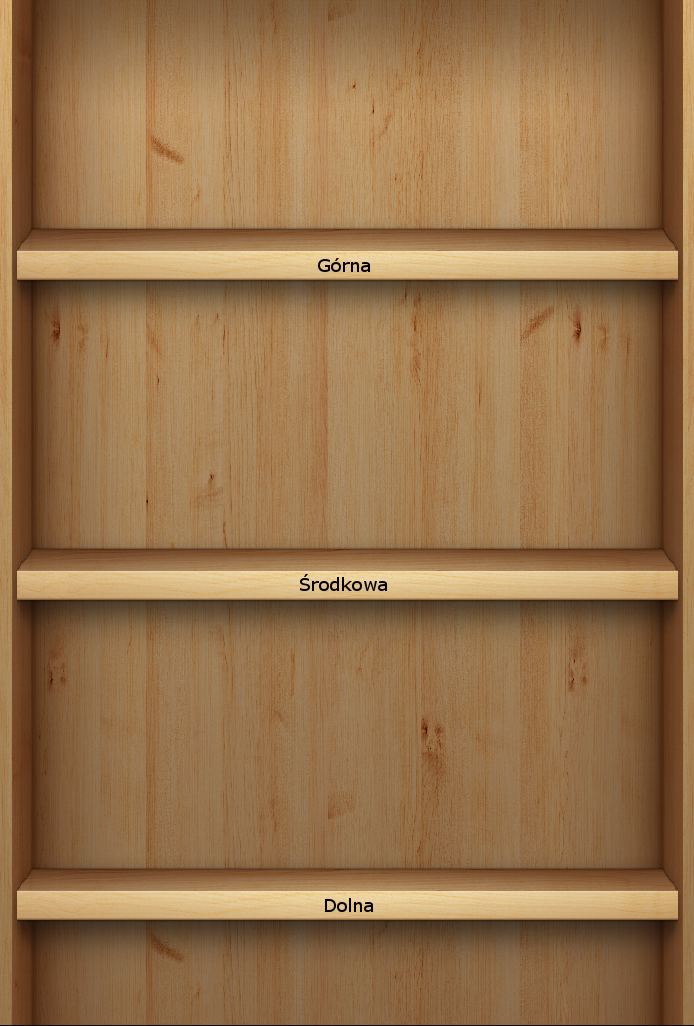
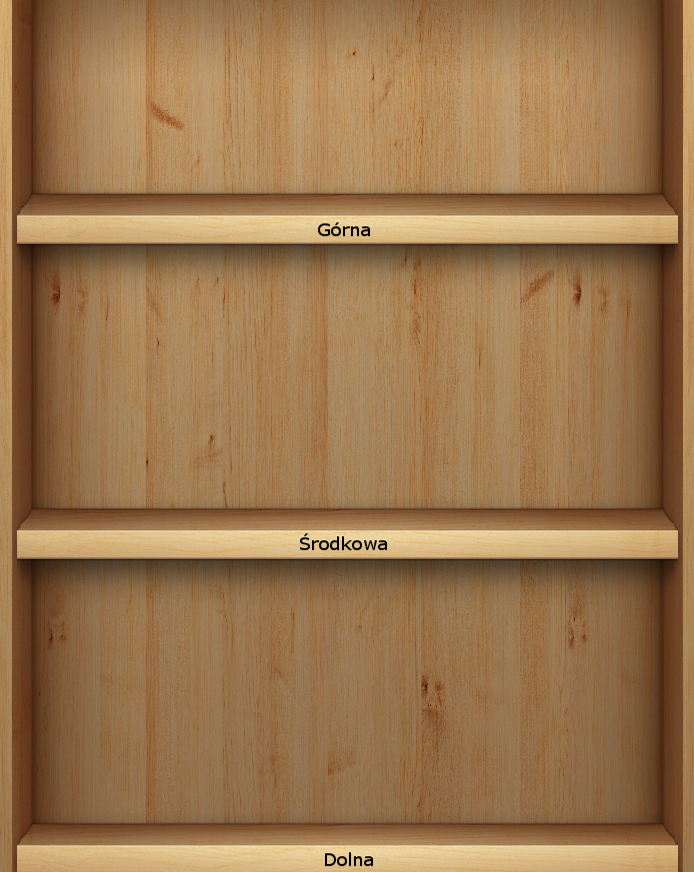
Dalsza rozbudowany grafika

diff --git a/KCK/KCK/GraphicManager.cpp b/KCK/KCK/GraphicManager.cpp
@@ -7,6 +7,12 @@ GraphicManager::GraphicManager()
 	_SI = new ScriptInterpreter();
 	_mech = _SI->getMechanic();
 	createWindow(WINDOW_WIDTH, WINDOW_HEIGHT);
+	BORDER_VIEWS_Y_AXIS = _mech->findShelf("south")->getSprite()->getGlobalBounds().top
+		+ _mech->findShelf("south")->getSprite()->getGlobalBounds().height;
+	BORDER_VIEWS_X_AXIS = _mech->findShelf("east")->getSprite()->getGlobalBounds().left
+		+ _mech->findShelf("east")->getSprite()->getGlobalBounds().width;
+	_topView = new TopView(*_window, _mech, BORDER_VIEWS_X_AXIS, BORDER_VIEWS_Y_AXIS);
+	_frontView = new FrontView(*_window, _mech, BORDER_VIEWS_X_AXIS, BORDER_VIEWS_Y_AXIS);
 }
 
 
@@ -18,16 +24,28 @@ void GraphicManager::runGraphic()
 { 
 	while (_window->isOpen())
 	{
+		Vector2f mouse(Mouse::getPosition(*_window));
 		Event event;
 		while (_window->pollEvent(event))
 		{
+			//jesli event dzieje sie na terenie ktoregos z pol, tam go wysylamy
+			//if (mouse.y > BORDER_VIEWS_Y_AXIS)
+
+			//else
+			if (mouse.x < BORDER_VIEWS_X_AXIS)
+				_topView->executeEvent(mouse, event);
+			else
+				_frontView->executeEvent(mouse, event);
 			if (event.type == Event::Closed)
 				_window->close();
+
 		}
 		//czyszczenie
 		_window->clear();
 		//rysowanie
-		drawShelves();
+		
+		_topView->drawAllContent();
+		_frontView->drawAllContent();
 		//wyswietlanie
 		_window->display();
 	}
@@ -49,15 +67,5 @@ void GraphicManager::createWindow(int Xsize, int Ysize)
 {
 	_window = new RenderWindow(VideoMode(Xsize, Ysize), "KCK");
 	_window->setFramerateLimit(60);
-}
-
-void GraphicManager::drawShelves()
-{
-	vector<Shelf*> vec = _mech->getShelvesVec();
-	for (vector<Shelf*>::iterator it = vec.begin(); it != vec.end(); ++it) //iterujemy przez caly vector
-	{
-		Sprite* sprite = (*it)->getSprite();
-		_window->draw(*sprite);
-	}
 }
 

diff --git a/KCK/KCK/TopView.cpp b/KCK/KCK/TopView.cpp
@@ -1,0 +1,47 @@
+#include "TopView.h"
+
+
+
+TopView::TopView(RenderWindow& window, Mechanic* mech, int borderXAxis, int borderYAxis) : _window(window)
+{
+	_mech = mech;
+	_background = new Sprite(*IOManager::loadSpriteFromFile("floor.png"), IntRect(10, 10, borderXAxis, borderYAxis));
+	_vec = _mech->getShelvesVec();
+}
+
+
+
+TopView::~TopView()
+{
+}
+
+void TopView::drawAllContent()
+{
+	_window.draw(*_background);
+	drawShelves();
+}
+
+void TopView::executeEvent(Vector2f& mouse, Event& event)
+{
+	//sprawdzanie czy ktoras z polek zawiera mysz
+	for (vector<Shelf*>::iterator it = _vec.begin(); it != _vec.end(); ++it) //iterujemy przez caly vector
+	{
+		Sprite* sprite = (*it)->getSprite();
+		//if (sprite->getGlobalBounds().contains(mouse))
+		if (event.type == Event::MouseButtonPressed)
+			sprite->setColor(Color(255, 255, 0, 255));
+		else
+			sprite->setColor(Color(0, 255, 0, 255));
+	}
+	return;
+}
+
+void TopView::drawShelves()
+{
+	for (vector<Shelf*>::iterator it = _vec.begin(); it != _vec.end(); ++it) //iterujemy przez caly vector
+	{
+		Sprite* sprite = (*it)->getSprite();
+		_window.draw(*sprite);
+	}
+}
+

diff --git a/KCK/KCK/IOManager.cpp b/KCK/KCK/IOManager.cpp
@@ -48,7 +48,7 @@ map<string, string>* IOManager::loadMapFromFile(string fileName)
 	return nullptr;
 }
 
-sf::Sprite* IOManager::loadSpriteFromFile(string fileName) //@todo: zapobiegniecie wczytywaniu x razy tej samej tekstury
+sf::Texture* IOManager::loadSpriteFromFile(string fileName) //@todo: zapobiegniecie wczytywaniu x razy tej samej tekstury
 {
 	string location = GRAPHICS_FILES_LOCATION + fileName;
 	location = location.c_str();
@@ -56,7 +56,8 @@ sf::Sprite* IOManager::loadSpriteFromFile(string fileName) //@todo: zapobiegniec
 	sf::Texture* texture = new sf::Texture();
 	//@todo: sprawdzenie czy zaladowalo texture
 	texture->loadFromFile(location);
-	sprite = new sf::Sprite;
+	return texture;
+	/*sprite = new sf::Sprite;
 	sprite->setTexture(*texture);
-	return sprite;
+	return sprite;*/
 }

diff --git a/KCK/KCK/FrontView.cpp b/KCK/KCK/FrontView.cpp
@@ -1,0 +1,29 @@
+#include "FrontView.h"
+
+
+
+
+
+FrontView::FrontView(RenderWindow & window, Mechanic * mech, int borderXAxis, int borderYAxis) : _window(window)
+{
+	_mech = mech;
+	_borderXAxis = borderXAxis;
+	_borderYAxis = borderYAxis;
+	_background = new Sprite(*IOManager::loadSpriteFromFile("shelfFront.png"));
+	_background->setPosition(borderXAxis, 0);
+	_background->setScale(0.55, 0.55);
+}
+
+FrontView::~FrontView()
+{
+}
+
+void FrontView::drawAllContent()
+{
+	_window.draw(*_background);
+}
+
+void FrontView::executeEvent(Vector2f & mouse, Event & event)
+{
+
+}

diff --git a/KCK/KCK/TopView.h b/KCK/KCK/TopView.h
@@ -1,0 +1,24 @@
+#pragma once
+#include <SFML/Graphics.hpp>
+#include <vector>
+#include "Mechanic.h"
+#include "IOManager.h"
+using namespace std;
+using namespace sf;
+
+class TopView
+{
+public:
+	TopView(RenderWindow& window, Mechanic* mech, int borderXAxis, int borderYAxis);
+	~TopView();
+	void drawAllContent();
+	void executeEvent(Vector2f& mouse, Event& event);
+
+private:
+	RenderWindow& _window;
+	Mechanic* _mech;
+	void drawShelves();
+	vector<Shelf*> _vec;
+	Sprite* _background;
+};
+

diff --git a/KCK/KCK/FrontView.h b/KCK/KCK/FrontView.h
@@ -1,0 +1,24 @@
+#pragma once
+#include <SFML\Graphics.hpp>
+#include "Mechanic.h"
+#include "GraphicsConfig.h"
+#include "IOManager.h"
+using namespace sf;
+class FrontView
+{
+public:
+	FrontView(RenderWindow& window, Mechanic* mech, int borderXAxis, int borderYAxis);
+	~FrontView();
+	void drawAllContent();
+	void executeEvent(Vector2f& mouse, Event& event);
+
+private:
+	RenderWindow& _window;
+	Mechanic* _mech;
+
+	int _borderXAxis;
+	int _borderYAxis;
+
+	Sprite* _background;
+};
+
